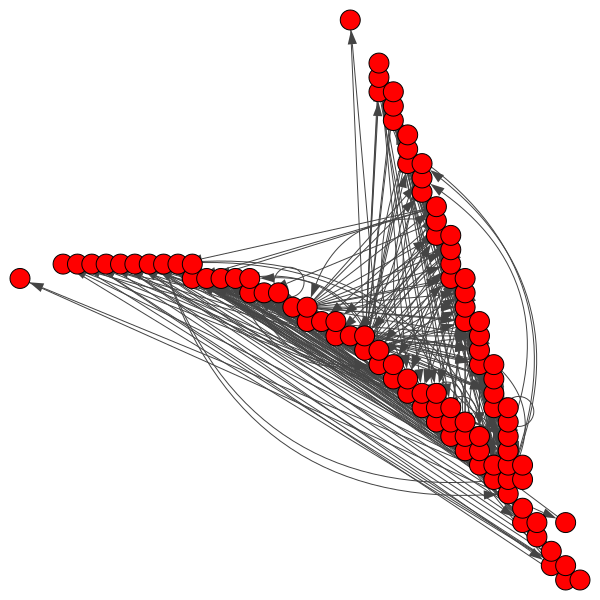
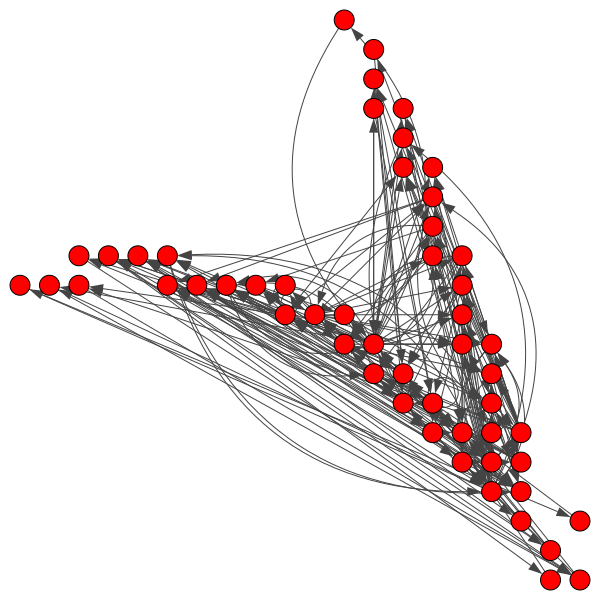
printing cleaner

Changed region(s): [[0.0, 0.0, 0.99, 0.99], [0.51, 0.09, 0.54, 0.12], [0.48, 0.27, 0.51, 0.3]]

diff --git a/example-1-lorenz.py b/example-1-lorenz.py
@@ -11,7 +11,7 @@ if __name__=='__main__':
     xyz0 = [19, 50, 165] # Initial condition of the dynamics
     rho  = 180.5 # Control parameter of the Lorenz system
     section = 15.0 # Point of intersection of the Poincare plane with the x-axis
-    b = 40 # Spatial resolution of the discretization
+    b = 20 # Spatial resolution of the discretization
 
     # Generating the Lorenz dynamics
     dynamics = lorenz(N=N, dt=dt, sigma=10, beta=8./3, rho=rho, xyz0=xyz0)[:, trans:]

diff --git a/stn.py b/stn.py
@@ -130,7 +130,7 @@ def STN(data, b, vs_coords=True, no_dead_ends=True):
     ts = np.ravel_multi_index(d, sh)
     esl = np.array([ts[:len(ts)-1],ts[1:]]).T
     es_ws = count_links(esl)
-    print(esl)
+    #print(esl)
     g = ig.Graph((es_ws[:,:2]).tolist(),directed=True)
     if vs_coords:
         g.vs['x'], g.vs['y'] = np.unravel_index(np.arange(len(g.vs)),sh)

diff --git a/example-2-henon.py b/example-2-henon.py
@@ -14,7 +14,7 @@ if __name__=='__main__':
     lyaps = np.zeros_like(a_params)
 
     for i, a in enumerate(a_params):
-        print(i)
+        print("Param %d; a = %f" %(i,a))
         # Generating the Henon map
         dynamics = henon_map(N, a, 0.3, 1.0, 0.5)[:, trans:]
         # Constructing the STNs
